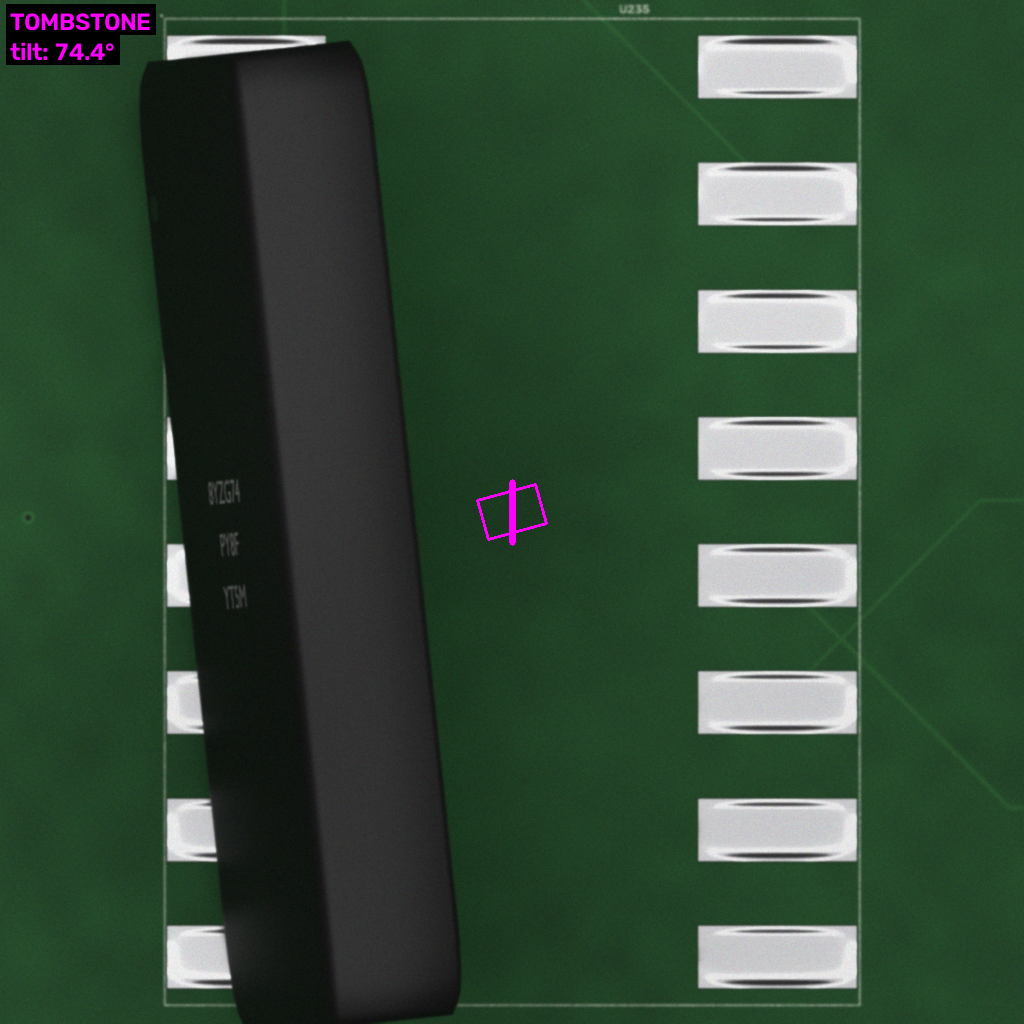
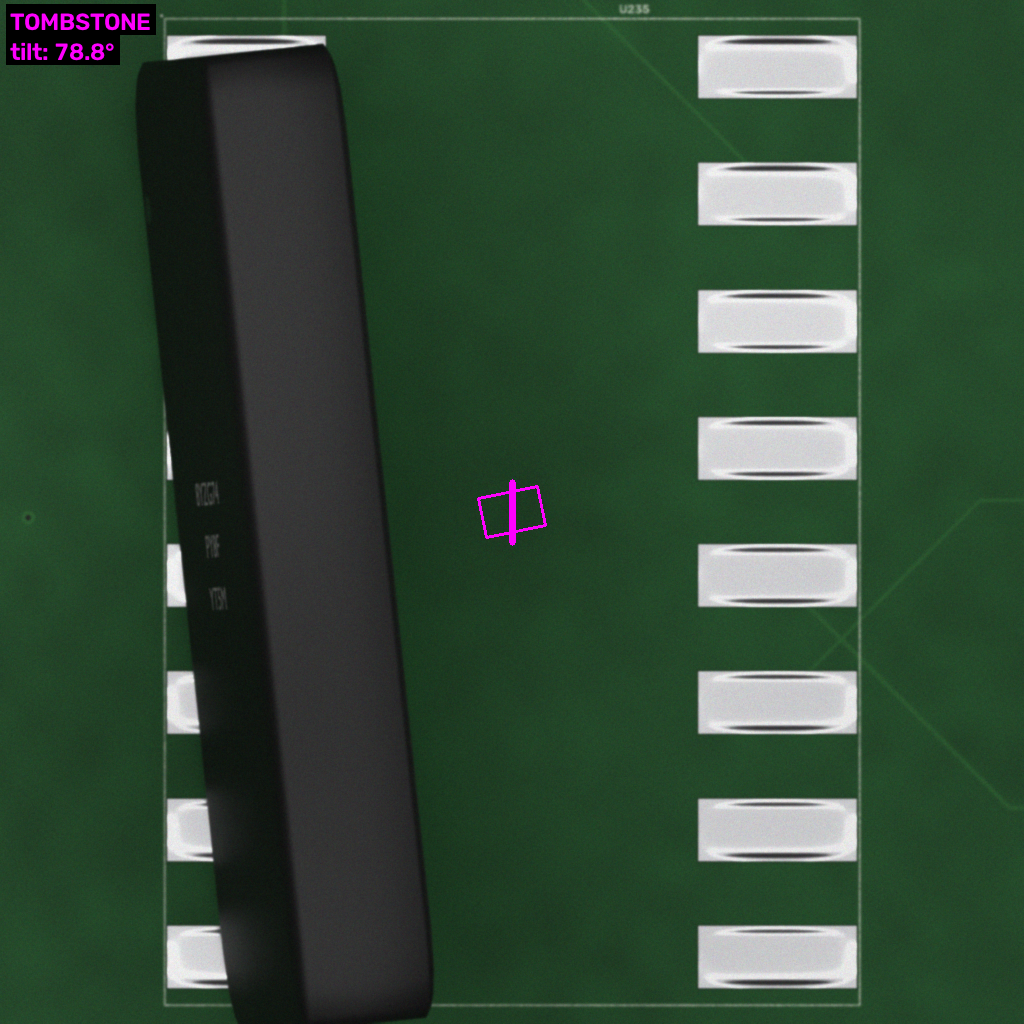
Sample gallery: add chip_0603_resistor@2, regenerate with full tombstone tilt range

diff --git a/Simple-Sim/SAMPLE_GALLERY.md b/Simple-Sim/SAMPLE_GALLERY.md
@@ -1,6 +1,6 @@
 # Sample Gallery
 
-Auto-generated reference images for all component profiles (2D and 3D). Last updated: 2026-11-06 09:10:10
+Auto-generated reference images for all component profiles (2D and 3D). Last updated: 2026-11-06 09:39:40
 
 Re-generate by running:
 ```bash
@@ -11,6 +11,7 @@ Re-generate by running:
 
 - [2D Profiles](#2d-profiles)
   - [chip_0603_resistor@1](#chip-0603-resistor1)
+  - [chip_0603_resistor@2](#chip-0603-resistor2)
   - [qfn32_ic@1](#qfn32-ic1)
   - [sot23_transistor@1](#sot23-transistor1)
 - [3D Profiles](#3d-profiles)
@@ -29,6 +30,15 @@ Re-generate by running:
 | MISSING | ![MISSING](images/samples/chip_0603_resistor@1/MISSING.png) |
 | OK | ![OK](images/samples/chip_0603_resistor@1/OK.png) |
 | TOMBSTONE | ![TOMBSTONE](images/samples/chip_0603_resistor@1/TOMBSTONE.png) |
+
+### chip_0603_resistor@2
+
+| Class | Sample |
+|-------|--------|
+| MISALIGNED | ![MISALIGNED](images/samples/chip_0603_resistor@2/MISALIGNED.png) |
+| MISSING | ![MISSING](images/samples/chip_0603_resistor@2/MISSING.png) |
+| OK | ![OK](images/samples/chip_0603_resistor@2/OK.png) |
+| TOMBSTONE | ![TOMBSTONE](images/samples/chip_0603_resistor@2/TOMBSTONE.png) |
 
 ### qfn32_ic@1
 
